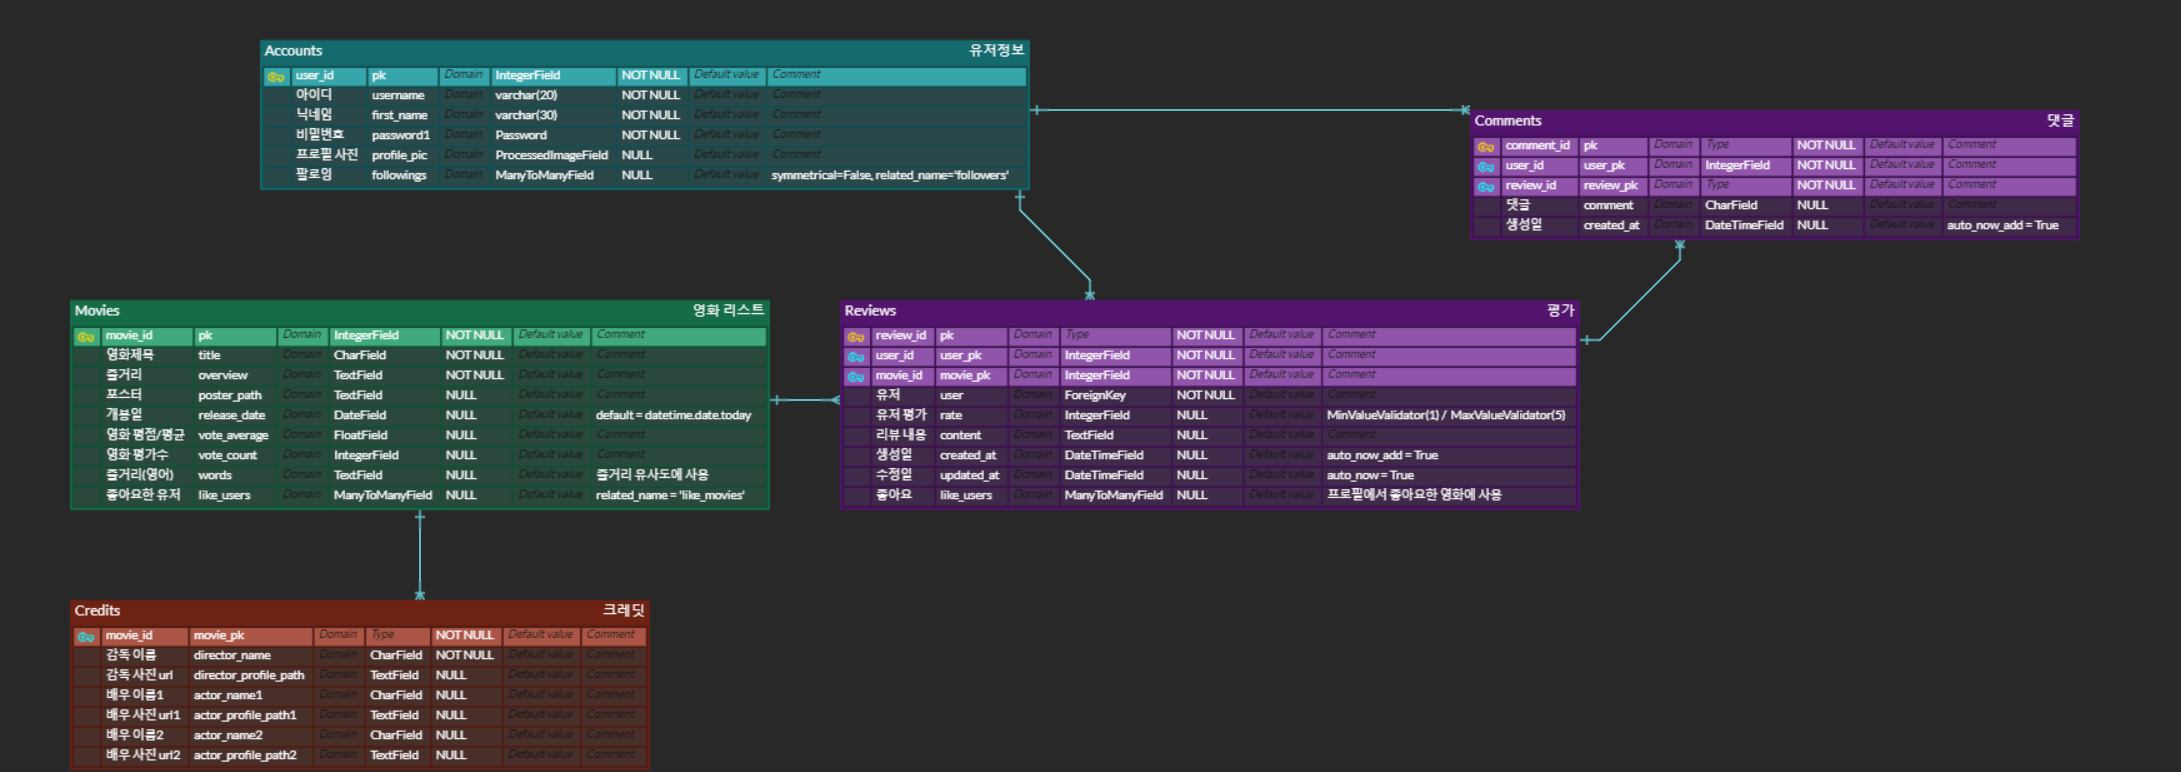
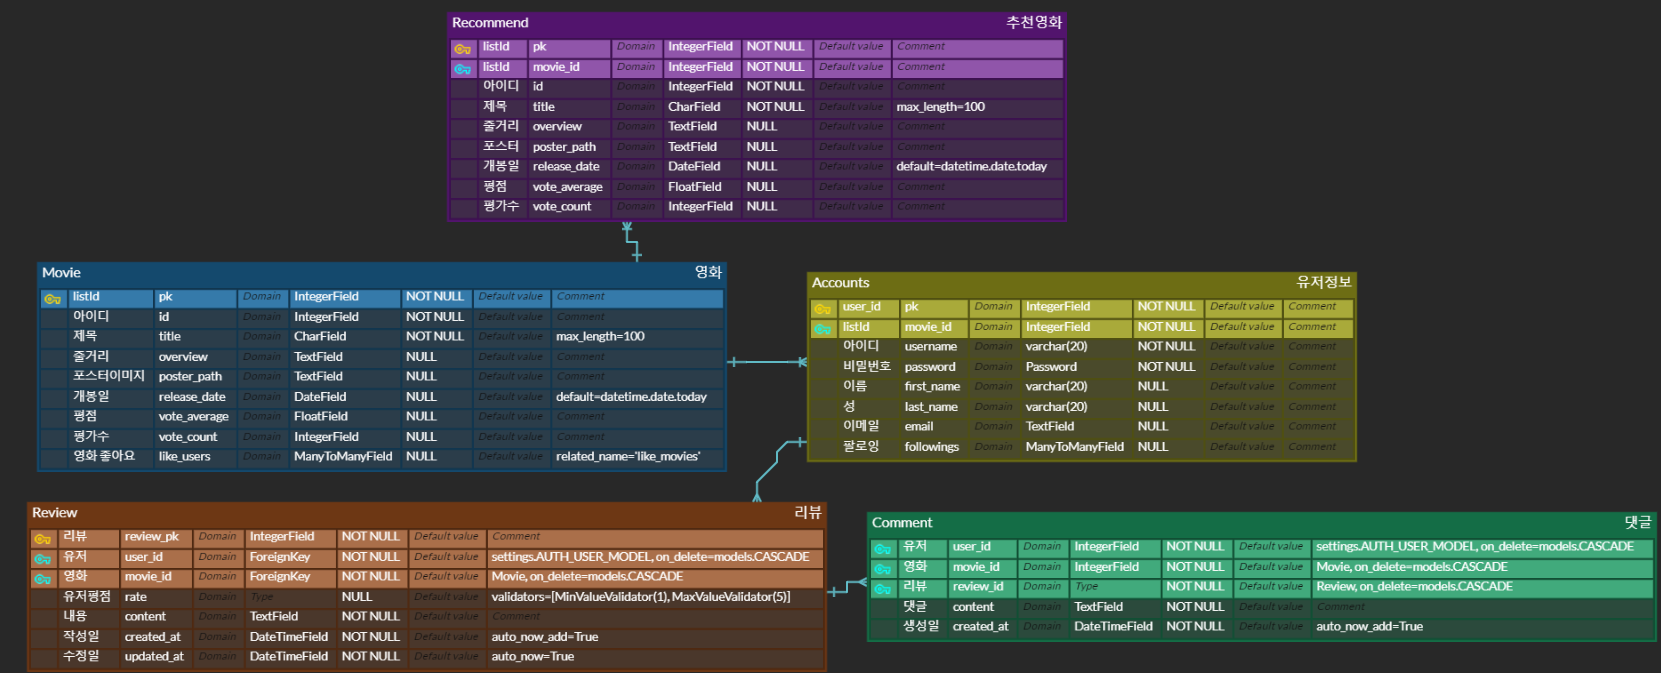
Docs: Update README - final pjt erd

diff --git a/final-pjt-back/movies/migrations/0001_initial.py b/final-pjt-back/movies/migrations/0001_initial.py
@@ -1,4 +1,4 @@
-# Generated by Django 3.2.6 on 2023-05-25 08:34
+# Generated by Django 3.2.6 on 2023-05-25 11:52
 
 import datetime
 from django.conf import settings
@@ -54,11 +54,6 @@ class Migration(migrations.Migration):
                 ('movie', models.ForeignKey(on_delete=django.db.models.deletion.CASCADE, to='movies.movie')),
                 ('user', models.ForeignKey(on_delete=django.db.models.deletion.CASCADE, to=settings.AUTH_USER_MODEL)),
             ],
-        ),
-        migrations.AddField(
-            model_name='movie',
-            name='recommends',
-            field=models.ManyToManyField(to='movies.Recommend'),
         ),
         migrations.CreateModel(
             name='Comment',

diff --git a/final-pjt-back/accounts/migrations/0001_initial.py b/final-pjt-back/accounts/migrations/0001_initial.py
@@ -1,4 +1,4 @@
-# Generated by Django 3.2.6 on 2023-05-25 08:34
+# Generated by Django 3.2.6 on 2023-05-25 11:52
 
 from django.conf import settings
 import django.contrib.auth.models

diff --git a/README.md b/README.md
@@ -140,7 +140,7 @@ type: Subject - body
 <br><br>
 
 ## 4-1) 데이터베이스 모델링(ERD)
-<img src="./readme_pic/Final_PJT_ERD.jpg" style="width: 500px ">
+<img src="./readme_pic/Final_PJT_ERD.png" style="width: 500px ">
 
 <br>
 
